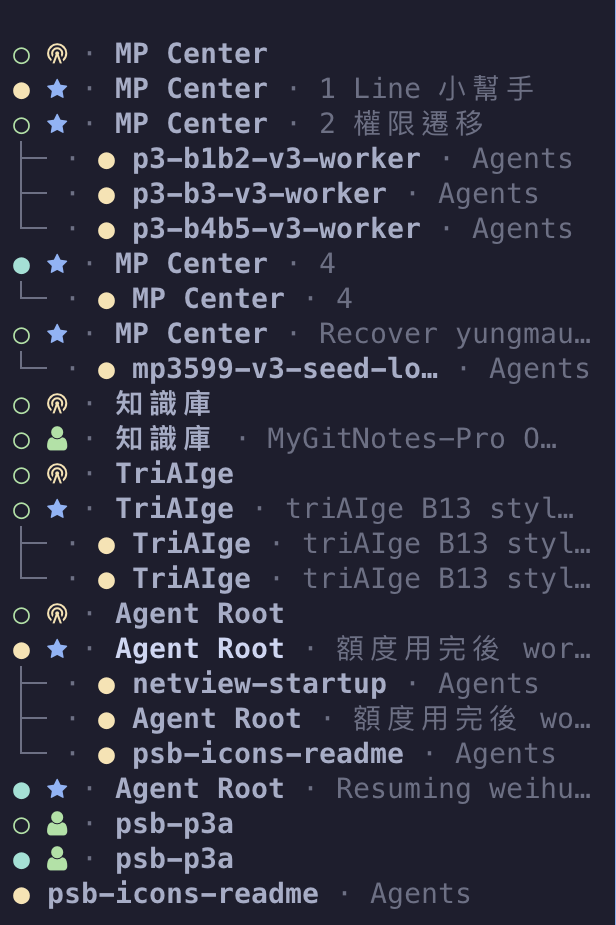
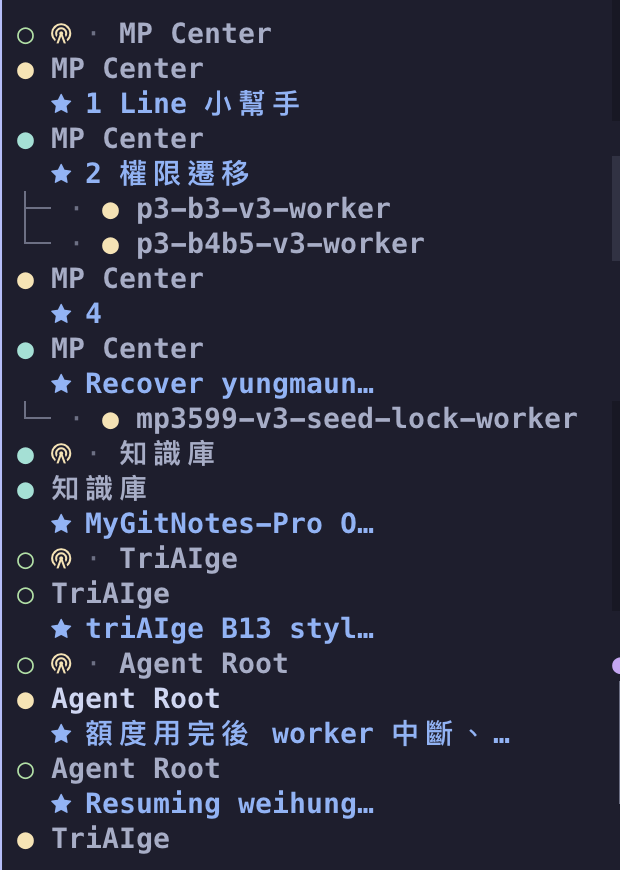
feat(net): a main agent's second row carries its tab label, and members carry theirs in sb_tab

diff --git a/tests/order.test.ts b/tests/order.test.ts
@@ -139,9 +139,9 @@ test("netTokens reads Herdr for a session's own tokens (a tower has no mark) and
 	assert.equal(ARROW, "[sub]", "a subagent is tagged in words, then its launcher");
 	assert.equal(MARK.member, "\uf007", "a member is marked by the person glyph alone");
 	assert.deepEqual(INDENT, { more: "├─", last: "└─" }, "a subagent hangs on a tree branch, like a worktree in Herdr's Spaces panel");
-	assert.deepEqual(main, { own: { sb_order: "000.1.000.0.000", sb_mark: `${MARK.main} main`, sb_indent: null }, kids: [{ pane: "wS:p1", order: "000.1.000.0.000.000", mark: `${ARROW} Main`, indent: INDENT.last }], joined: new Set() }, "a main agent carries no indent; its only subagent has the last branch");
-	assert.deepEqual((await netTokens(run, place, "tower", "Main")).own, { sb_order: "000.0", sb_mark: null, sb_indent: null }, "a tower's tab already carries the glyph, and a tower is not indented");
-	assert.deepEqual((await netTokens(run, { ...place, paneId: "wA:p99" }, "member", "Main")).own, { sb_order: null, sb_mark: MARK.member, sb_indent: null }, "a pane Herdr does not list has no key");
+	assert.deepEqual(main, { own: { sb_order: "000.1.000.0.000", sb_mark: `${MARK.main} work`, sb_indent: null, sb_tab: null }, kids: [{ pane: "wS:p1", order: "000.1.000.0.000.000", mark: `${ARROW} Main`, indent: INDENT.last }], joined: new Set() }, "a main agent carries no indent; its only subagent has the last branch");
+	assert.deepEqual((await netTokens(run, place, "tower", "Main")).own, { sb_order: "000.0", sb_mark: null, sb_indent: null, sb_tab: null }, "a tower's tab already carries the glyph, and a tower is not indented");
+	assert.deepEqual((await netTokens(run, { ...place, paneId: "wA:p99" }, "member", "Main")).own, { sb_order: null, sb_mark: MARK.member, sb_indent: null, sb_tab: null }, "a pane Herdr does not list has no key");
 
 	const marked = await markKids(run, main.kids, new Set(["wS:old"]));
 	assert.deepEqual([...marked], ["wS:p1"]);
@@ -179,7 +179,7 @@ test("a pane that ran a subagent and now hosts a session drops the indent it kep
 	world.herdr.pane("wA:p3").tokens = { sb_order: "000.1.000.0.000.000", sb_mark: `${ARROW} Main`, sb_indent: INDENT.more };
 	await c.start();
 	await until(() => world.herdr.pane("wA:p3").tokens.sb_order === "000.1.001.1.000", "its own key");
-	assert.deepEqual(world.herdr.pane("wA:p3").tokens, { sb_role: "member", sb_order: "000.1.001.1.000", sb_mark: MARK.member }, "no indent: it is a member now");
+	assert.deepEqual(world.herdr.pane("wA:p3").tokens, { sb_role: "member", sb_order: "000.1.001.1.000", sb_mark: MARK.member, sb_tab: "docs" }, "no indent: it is a member now");
 });
 
 test("a session publishes its key and mark with its role, rewrites them when it is promoted, and the subagents it launched get theirs on the 4 minute refresh", async () => {
@@ -196,13 +196,13 @@ test("a session publishes its key and mark with its role, rewrites them when it 
 	const raw = (id: string) => world.herdr.pane(id).tokens;
 	await until(() => raw("wA:p3").sb_order, "every session's key");
 	assert.deepEqual(raw("wA:p7"), { sb_role: "tower", sb_order: "000.0" }, "the tower: first, and no mark");
-	assert.deepEqual(raw("wA:p1"), { sb_role: "member", sb_order: "000.1.000.1.000", sb_mark: MARK.member });
-	assert.deepEqual(raw("wA:p3"), { sb_role: "member", sb_order: "000.1.001.1.000", sb_mark: MARK.member });
+	assert.deepEqual(raw("wA:p1"), { sb_role: "member", sb_order: "000.1.000.1.000", sb_mark: MARK.member, sb_tab: "work" });
+	assert.deepEqual(raw("wA:p3"), { sb_role: "member", sb_order: "000.1.001.1.000", sb_mark: MARK.member, sb_tab: "docs" });
 	assert.equal(raw("wS:p1").sb_order, undefined, "a subagent is marked only once its pane runs it");
 
 	Object.assign(world.herdr.pane("wS:p1"), { agent: "pi", agent_status: "working", label: "aaa", agent_session: { value: kidFile("kid-a") } });
 	await a.promote();
-	assert.deepEqual(raw("wA:p1"), { sb_role: "main", sb_order: "000.1.000.0.000", sb_mark: `${MARK.main} main` }, "promotion rewrites both");
+	assert.deepEqual(raw("wA:p1"), { sb_role: "main", sb_order: "000.1.000.0.000", sb_mark: `${MARK.main} work` }, "promotion moves the tab label into the mark and clears sb_tab");
 	assert.deepEqual(raw("wS:p1"), { sb_order: "000.1.000.0.000.000", sb_mark: `${ARROW} Solo`, sb_indent: INDENT.last }, "the subagent in the worktree workspace hangs under its launcher, on the last branch");
 	assert.deepEqual(byKey(Object.fromEntries(["wA:p7", "wA:p1", "wS:p1", "wA:p2", "wA:p3"].map((id) => [id, raw(id).sb_order]))), ["wA:p7", "wA:p1", "wS:p1", "wA:p2", "wA:p3"]);
 

diff --git a/src/order.ts b/src/order.ts
@@ -1,13 +1,14 @@
 import { subagents } from "./dashboard.ts";
 import { ARROW, type HerdrRun, type HerdrTab, isSub, MARK, type Pane, panes, type Place, report, tabs, workspaces, type Workspace } from "./herdr.ts";
 
-// Three display tokens for the sidebar plugin and for Herdr's own Agents rows, written next to `sb_role`:
+// Four display tokens for the sidebar plugin and for Herdr's own Agents rows, written next to `sb_role`:
 //  - `sb_order`: a sort key that lays the net out as the head tower's workspace first, then the other workspaces in Herdr's order, in each the tower
 //    and then the tabs in tab order, in each tab the main agent and then the members, and every subagent right after the session that launched it,
 //    its own subagents after it in turn. Segments are fixed-width and `.`-separated, so plain string order is the numeric order of every segment,
 //    and a subagent's key is its parent's key plus one more segment, which sorts after the parent and before the parent's next sibling.
-//  - `sb_mark`: a short label that says what a net member is, a star and `main` for a main agent, a person (U+F007) alone for a member, and `[sub]` and the launcher's name for a subagent.
+//  - `sb_mark`: a short label that says what a net member is, a star and its tab's label for a main agent, a person (U+F007) alone for a member, and `[sub]` and the launcher's name for a subagent.
 //    A tower has none: its tab already carries the radio tower glyph.
+//  - `sb_tab`: a member's tab label, which the first row shows in place of Herdr's tab item; a main agent's is in its mark instead.
 //  - `sb_indent`: a tree branch on a subagent alone, like Herdr's Spaces panel draws a worktree: `├─` while a later subagent of the same launcher is marked, `└─` on the last. A row put before the state icon shows it as the
 //    indent under the launcher. A tower, a main agent and a member carry none.
 // A session writes them for itself and for the subagents it launched, which never join and write nothing, on the same 4 minute refresh as `sb_role`.
@@ -58,7 +59,10 @@ export async function netTokens(run: HerdrRun, place: Place, role: "tower" | "ma
 	const [ps, all, tabList] = [await panes(run), await workspaces(run), await tabs(run, place.workspaceId)];
 	const pane = ps.find((p) => p.pane_id === place.paneId), key = pane && orderKey(role, pane, ps, all, tabList);
 	const joined = new Set(ps.filter((p) => p.tokens?.sb_role).map((p) => p.pane_id));
-	return { own: { sb_order: key ?? null, sb_mark: role === "tower" ? null : role === "main" ? `${MARK.main} main` : MARK[role], sb_indent: null }, kids: key ? descendants(pane, key, name, ps, now) : [], joined };
+	// A main agent's tab label goes in its mark, for a row of its own; a member's in `sb_tab`, which stands for the tab item in the first row.
+	const tab = tabList.find((t) => t.tab_id === pane?.tab_id)?.label || null;
+	const mark = role === "tower" ? null : role === "main" ? (tab ? `${MARK.main} ${tab}` : MARK.main) : MARK[role];
+	return { own: { sb_order: key ?? null, sb_mark: mark, sb_indent: null, sb_tab: role === "member" ? tab : null }, kids: key ? descendants(pane, key, name, ps, now) : [], joined };
 }
 
 /**

diff --git a/src/index.ts b/src/index.ts
@@ -403,7 +403,7 @@ export function createStrawBoss({ run = herdrRun, api = herdrApi(), call = herdr
 			const held = holdsTower;
 			holdsTower = false;
 			if (!role() || !at) return;
-			await report(run, "pane", at.paneId, { sb_role: null, sb_order: null, sb_mark: null, sb_indent: null }).catch(() => {});
+			await report(run, "pane", at.paneId, { sb_role: null, sb_order: null, sb_mark: null, sb_indent: null, sb_tab: null }).catch(() => {});
 			await clearOrder(run, [...kids]);
 			if (held) await report(run, "workspace", at.workspaceId, { tower: null }).catch(() => {});
 		});

diff --git a/tests/fakes.ts b/tests/fakes.ts
@@ -345,7 +345,7 @@ export class Agent {
 	}
 	/** The pane's role tokens; the order, mark and indent tokens (order.ts) have their own tests. */
 	get tokens(): Tokens {
-		const { sb_order: _order, sb_mark: _mark, sb_indent: _indent, ...role } = this.world.herdr.pane(this.pane).tokens;
+		const { sb_order: _order, sb_mark: _mark, sb_indent: _indent, sb_tab: _tab, ...role } = this.world.herdr.pane(this.pane).tokens;
 		return role;
 	}
 	async fire(type: string, event: Record<string, unknown> = {}): Promise<void> {

diff --git a/docs/how-it-works.md b/docs/how-it-works.md
@@ -142,8 +142,10 @@ A session that ends clears its own and its subagents'.
   A main agent's or member's is `WWW.1.TTT.R.PPP`: `WWW` is the place of its workspace among the base workspaces (a sub workspace does not count, and the head tower's is `000`), `TTT` the place of its tab in the workspace, `R` is `0` for a main agent and `1` for a member, and `PPP` the place of its pane in the tab.
   Each subagent adds one `.NNN` segment, its place among the live and finished subagents of its launcher, at any depth (the dashboard lists eight per session, the keys cover every live one).
   Every number is zero-padded, so plain string order is numeric order, and a subagent's key sorts after its launcher's and before the launcher's next sibling's.
-- `sb_mark` says what a net member is, in a few characters: a star (Font Awesome's, U+F005) and `main` for a main agent, a person alone (Font Awesome's, U+F007) for a member, and `[sub] <launcher>` for a subagent, with the launcher's name cut to 24 characters.
+- `sb_mark` says what a net member is, in a few characters: a star (Font Awesome's, U+F005) and its tab's label for a main agent, a person alone (Font Awesome's, U+F007) for a member, and `[sub] <launcher>` for a subagent, with the launcher's name cut to 24 characters.
   A tower has none: its tab already carries the radio tower glyph.
+- `sb_tab` is a member's tab label, so the first row can show the tab for members while a main agent's label moves to its own row in `sb_mark`.
+  A tower, a main agent and a subagent carry none.
 - `sb_indent` is on a subagent alone, and is the branch to it from its launcher, drawn like the worktrees in Herdr's Spaces panel: `├─` while a later subagent of the same launcher is marked, `└─` on the last one.
   Subagents of one launcher are siblings at every depth.
   A tower, a main agent and a member carry none, and a session clears the one a pane kept from when it ran a subagent.
@@ -156,7 +158,8 @@ The tokens also show the roles in Herdr's own grouped view, which a plugin canno
 Add them to a row of `[ui.sidebar.agents]` in `config.toml`.
 `$sb_indent` goes before the state icon, so a subagent hangs under its launcher as the worktrees do in the Spaces panel; Herdr puts its own ` · ` after it, and an agent without the token shows nothing.
 In `$sb_mark` a member's person is bold, and the rule that hides the `[sub]` mark leaves a subagent one line, because the branch already says what it is. The snippet leaves the colors to your Herdr theme; add an `fg` to a rule to color a mark.
-Herdr drops a row whose every item is hidden, so the second row, which shows `$sb_mark` only when it starts with the star, gives a main agent a second line (`★ main`) and leaves every other agent one line.
+Herdr drops a row whose every item is hidden, so the second row, which shows `$sb_mark` only when it starts with the star, gives a main agent a second line (`★ <tab>`) and leaves every other agent one line.
+The first row shows `$sb_tab` instead of Herdr's `tab`, so a main agent's tab label is not shown twice; an agent outside the net (or a session that has not reloaded since 0.7.2) shows no tab label there.
 
 ```toml
 [ui.sidebar.agents]
@@ -169,7 +172,7 @@ rows = [
       { starts_with = "\uF005", hide = true },
       { starts_with = "\uF007", bold = true },
     ] },
-    "machine", "workspace", "tab",
+    "machine", "workspace", { token = "$sb_tab" },
   ],
   [{ token = "$sb_mark", rules = [{ starts_with = "\uF005", bold = true }, { contains = "", hide = true }] }],
 ]

diff --git a/README.md b/README.md
@@ -61,7 +61,7 @@ The view is on whenever the Herdr server starts, and one key switches it off and
 pi-straw-boss writes the sort key (`sb_order`), a role label (`sb_mark`) and, on subagents, a tree branch (`sb_indent`) the view and your sidebar rows can use.
 It needs Herdr 0.9.3 or newer and node.
 
-<p align="center"><img src="docs/sidebar-net-view.png" width="308" alt="Herdr's sidebar in the net view, one row per agent: each workspace's tower with the radio tower glyph first, main agents marked with a star and members with a person, and every subagent indented under the session that launched it"></p>
+<p align="center"><img src="docs/sidebar-net-view.png" width="308" alt="Herdr's sidebar in the net view: each workspace's tower with the radio tower glyph first, each main agent on two rows with a star and its tab's label, and every subagent on a tree branch under the session that launched it"></p>
 
 <p align="center"><sub>The net view with each agent's role mark. <a href="docs/how-it-works.md#sidebar-net-view">How it works</a> has the sidebar rows that show them.</sub></p>
 
